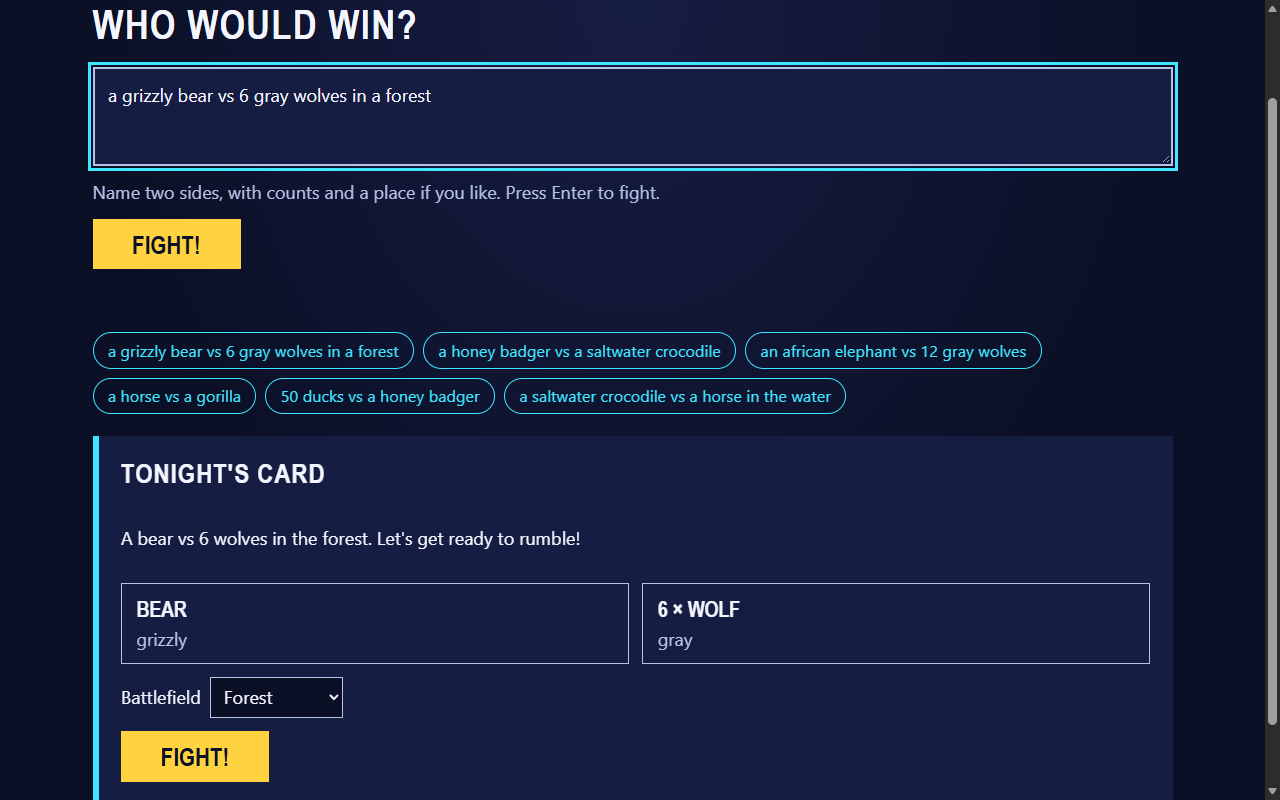
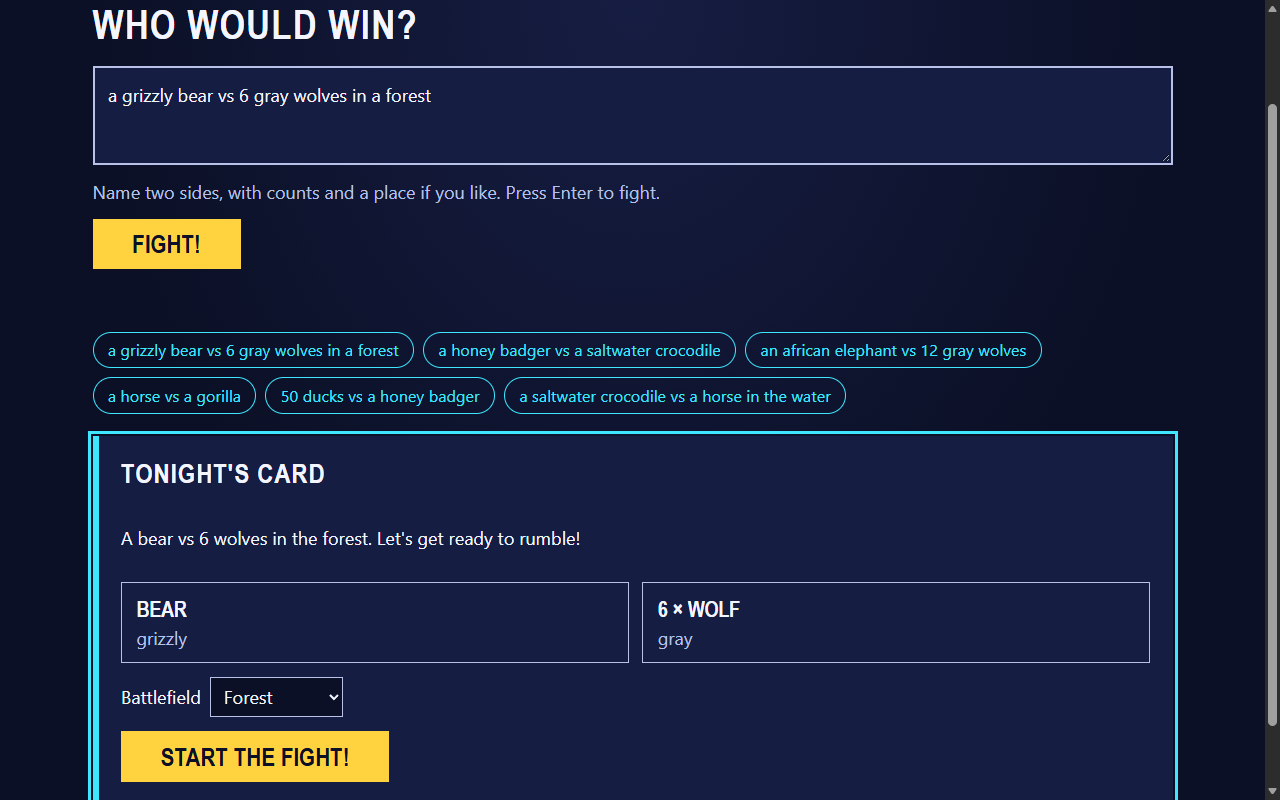
Say "Start the fight!" for the card button in the user guide (#49)
#467 renamed the card's button and now scrolls the page to the card.
Update the step text, the alt text and the 08-card.png screenshot
(retaken at 1280x800 on this branch after merging main).

diff --git a/docs/user-guide.md b/docs/user-guide.md
@@ -154,9 +154,9 @@ If a fighter is vague, the app asks **one** question, such as *"Which type of be
 
 ### Check tonight's card and pick a battlefield
 
-The app shows how it read your matchup: each side, how many, and any assumptions it made. Pick a **Battlefield** from the list (arena, open field, forest, open water, shoreline, city streets or mountain), then click **FIGHT!** on the card.
+The page scrolls down to the card, which shows how the app read your matchup: each side, how many, and any assumptions it made. Pick a **Battlefield** from the list (arena, open field, forest, open water, shoreline, city streets or mountain), then click **Start the fight!** on the card.
 
-![The "Tonight's card" panel showing Bear (grizzly) vs 6 × Wolf (gray), the Battlefield set to Forest, and a FIGHT! button](images/user-guide/08-card.png)
+![The "Tonight's card" panel showing Bear (grizzly) vs 6 × Wolf (gray), the Battlefield set to Forest, and a Start the fight! button](images/user-guide/08-card.png)
 
 ### Watch the broadcast
 
